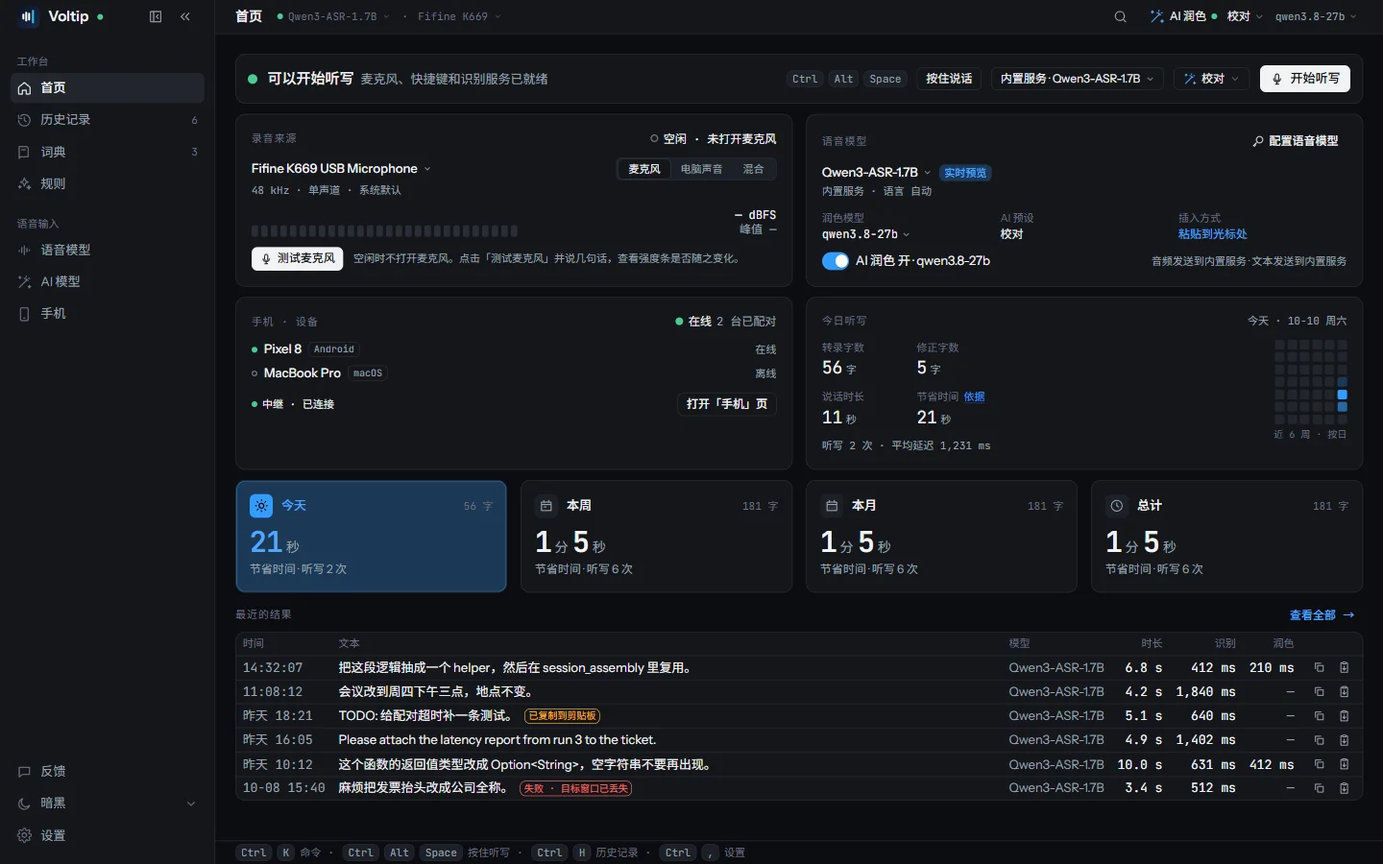
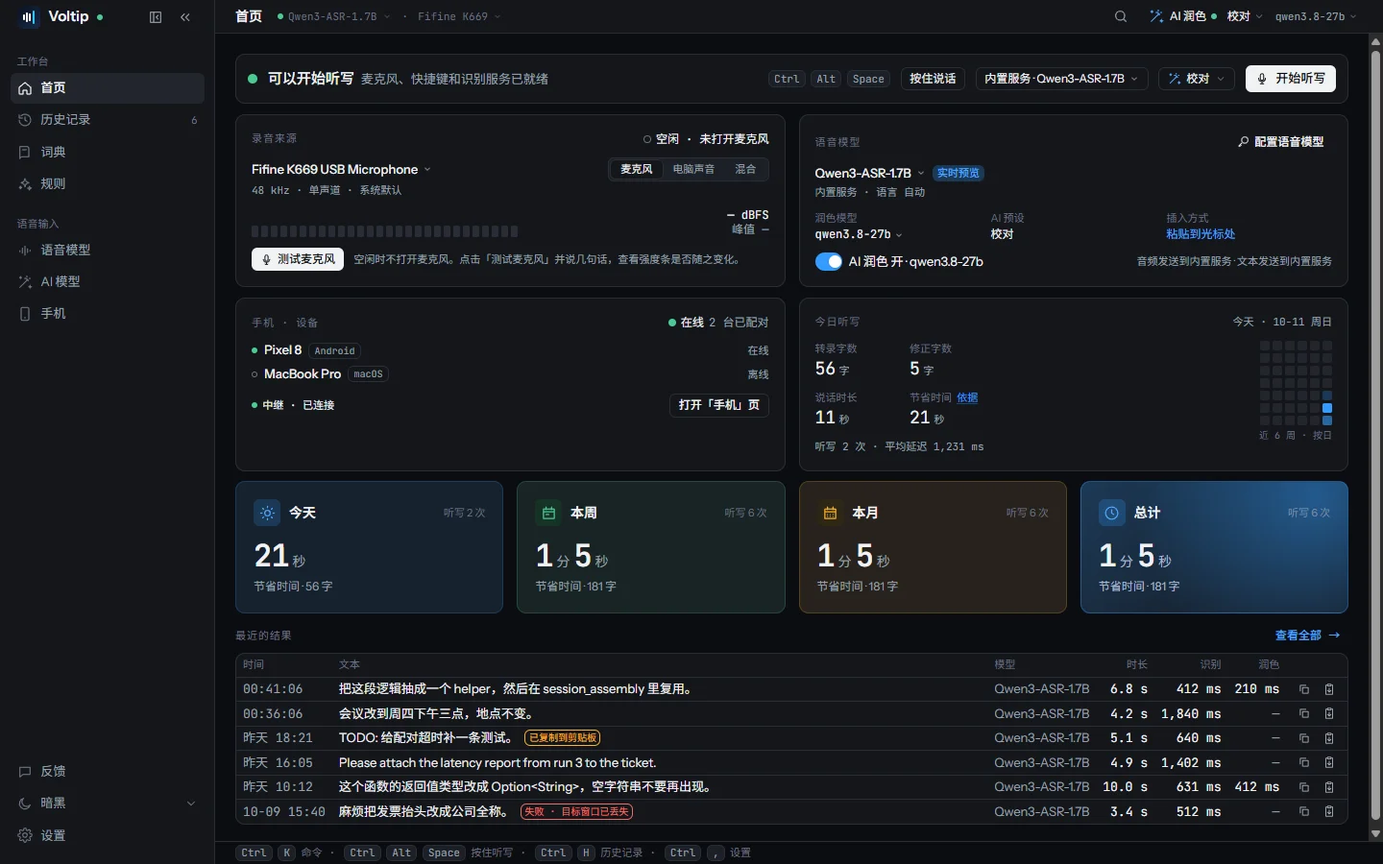
docs(voltip): sync from voltip@69ee77b
Source: https://github.com/sunerpy/voltip/commit/69ee77b1442ec076277a635450b58dadaf4c40a3

diff --git a/voltip/src/zh/dev/frontend.md b/voltip/src/zh/dev/frontend.md
@@ -139,7 +139,7 @@ type UiEvent = { type: "state" } & UiState | { type: "identity" } & DeviceIdenti
 - **设置是模态对话框**：`/settings/:section` 仍是路由（深链、测试），但渲染为 `SettingsDialog`（`min(960px, 100vw-48px) × min(660px, 100vh-48px)`，左 200 px 分组导航 + 右侧流式内容），压在路由 `background`（上一个非设置页面，默认首页）之上；Esc / 遮罩 / 关闭按钮回到 background；标题栏读数保持 background 页面的。
 - **设置 › 听写**（2026-09-29）：插入方式（粘贴到光标处 / 仅复制到剪贴板，`settings_set_engines { inject }`）只在这里设置；首页识别引擎卡的插入方式读数链接到这里。
 - **切换菜单**（`apps/desktop/src/features/switchers/`，2026-09-30 用户要求，2026-10-01 确认方案 A：预设与模型是两个下拉）：标题栏与首页共用三个菜单，行与选中后的设置由纯函数 `switchers.ts` 生成（行 id 由 `choiceId` / `parseChoice` 往返）。`SpeechModelMenu`：「内置服务」组在前，然后是每个已设置、能运行的云端服务商（未设置密钥或缺少地址的服务商不列出，2026-10-01 用户决定），各列其模型；「本地模型」组列出已安装的识别模型（档位名 + 产品名，`modelFamilyName`）；末行「管理语音模型…」进 `/speech`。`PolishModelMenu`：按提供 LLM 的可用服务商分组列模型，末行「管理 AI 模型…」进 `/ai`。选中写 `settings_set_engines`（`engineSettingsFor`：内置服务只切换服务商；其他服务商经 `applyProviderDraft` 写入模型并保留已保存的地址；本地模型经 `activateLocalModel`）。`MicrophoneMenu`：挂载时和每次打开时重读 `audio_devices`（刚插上的 USB 麦克风也在），「系统默认（{名称}）」在前，再列各设备短名；所选设备未连接时仍列出，带「未连接」、选中且不可选；选中写 `settings_set_microphone`；标题栏的菜单另有「录音来源」组（麦克风 / 电脑声音 / 混合，电脑声音不可用的平台不出现），末行「录音来源设置…」打开 设置 › 录音来源。首页：就绪行的语音模型 chip（`home-engine-chip`）、麦克风卡的设备名（`home-mic-device`，原「选择设备」按钮去掉；只录电脑声音时是纯文字）、识别引擎卡的模型名（`home-engine-model`）与「润色模型」（`home-refine-model`）都是这三个菜单的按钮。
-- **引擎页是服务商卡片**：「语音识别」「文本润色」「识别设置」三组。前两组各列一排服务商卡片（`ProviderCard`，按目录顺序，在用的那张带环、默认展开并标「使用中」），展开后选模型（预设 → 测试连接列出的 → 任意 id）、填接口地址（仅自定义接口）与密钥（`password` 字段，永远空着打开，只经 `provider_key_set` 写入；已保存时只显示「已保存」），「测试连接」= `provider_probe`，「使用」写 `settings_set_engines`；内置服务卡只写「内置服务的地址和密钥在构建时写进应用，这里不显示」。「本机」卡片里是真实的模型库（`LocalModels`）：只列识别模型（`capabilities` 含 `offline`），按产品档位排序 均衡 → 高精度 → 轻量 → 轻量 · 中文（`offlineModelsByTier`，同档位保持核心顺序，`listitem` 带 `data-tier`），卡片标题在中文下用核心的 `name`、英文下按 id 查字典（`modelDisplayName`），描述同理（`modelDescription`），下载 / 取消 / 重试 / 删除 / 使用此模型全部是真实核心命令。第三节「实时预览」（`LivePreview`，docs/dictation.md §11）：开关写 `settings_set_engines { live_preview }`（整块下发），状态灯行读 `state.engines.live_preview_ready`（已就绪 / 模型未下载 / 已关闭，`data-state`），下方是流式模型 `zipformer-stream-zh-en` 的同款卡片——只有下载 / 取消 / 重试 / 删除，**没有**「使用此模型」（`modelAction` → `installed`：它不是识别模型，永不 `active`）。第四节「输出方式」（`OutputMode`，docs/dictation.md §12，2026-09-26）：三张 `OptionCard`（`role="listbox"`，`aria-label="输出方式"`）——整段输出 / 流式定稿 / 实时注入，选中写 `settings_set_engines { output_mode }`；状态灯行与「当前生效」徽标读 `state.engines.effective_output_mode`（`data-mode` = 所选，`data-effective` = 实际），流式模型未下载时两张流式卡带「模型未下载」徽标、所选流式卡下方出「流式模型未下载，当前按整段输出运行」（`output-mode-fallback`）；`output_mode = live_inject` 且润色开着时 LLM 润色卡内出「实时注入下不润色」（`refine-live-inject`）。第五节「静音裁剪」（`VadTrim`）：`Toggle` 写 `settings_set_engines { vad_trim }`，仅本机识别时可用，云端下禁用并注明「仅本地识别可用；云端识别不裁剪」（`data-state` = on / off / cloud）。「本机」卡片最后是「运行设备」（`LocalCompute`，§10.6）：自动 / CPU / GPU（没有可用 GPU 时禁用 GPU）、多块 GPU 时选哪块、推理线程。服务商列表之后是「额度用完后改用其他模型」（`packages/ui` `FallbackSection`，docs/dictation.md §3.5，识别与润色各一份，手机同用）：开关与列表写 `settings_set_engines { asr_fallback | llm_fallback }`，每行的状态读 `state.engines.asr_fallback | llm_fallback`（`fallbackRows`：使用中 / 可用 / 额度已用完 · 何时再试 / 服务商问题 / 跳过），「重新检查」= `engines_quota_reset`；候补顶替时服务商区块标题为「当前：服务商 · 模型（候补）」，隐私说明在候补链运行时加上额度用完后会收到数据的服务商（两者是 `packages/ui` 的 `CurrentService` / `ServicePrivacy`，手机两页放在服务商卡片下方）；顶替实时模型的是整段识别模型时，「实时预览」为「暂不可用 · 候补模型不支持实时识别」（`data-state="paused"`），「输出方式」按整段输出生效，不显示「模型未下载」。
+- **引擎页是服务商卡片**：「语音识别」「文本润色」「识别设置」三组。前两组把服务商排成卡片网格（`packages/ui` `ProviderCards`，2026-10-10 用户在 Penpot「Voltip 服务商设置」选定方案 1：网格 + 右侧抽屉；按目录顺序，列宽 `auto-fill` 最小 280 px）：每张卡片写服务商名、请求发往的主机（内置服务、本机、未填地址的自定义接口写一句说明，内置服务的主机从不显示，`providerTagline`）、状态徽标（在用的写「使用中」，有问题的写原因，其余写「就绪」，`providerBadges`）和所用模型（等宽字体，过长截断），右下角是「设为当前」（只切换，写 `settings_set_engines`），在用的那张写「当前使用」并带浅强调色底与浅色图标块（用户 2026-10-10：实心蓝图标块不好看）。点卡片从右侧打开抽屉（`Drawer`：遮罩、Esc / 关闭按钮 / 点遮罩关闭、Tab 不出抽屉、关闭后焦点回到卡片；宽 480 px，本机 720 px，都不超过窗口宽减 24 px）：标题行是图标块、服务商名、状态徽标和说明，下面按「语音识别 / AI 润色」「连接」两组每行一个字段——选模型（预设 → 测试连接列出的 → 任意 id；`Select wrap` 让长模型 ID 在字段内换行，不再撑宽字段盖住旁边的接口地址，2026-10-10 用户报告）、接口地址、密钥（`password` 字段，永远空着打开，只经 `provider_key_set` 写入；已保存时只显示「已保存」；显示 / 隐藏按钮在字段内）、密钥状态与「获取密钥」「删除密钥」、「测试连接」（`provider_probe`，未测时写「尚未测试」）；底部是「恢复默认」「保存」和「设为当前」（先按「保存」的规则检查并写入草稿，再切换并关闭抽屉）；内置服务卡只写「内置服务的地址和密钥在构建时写进应用，这里不显示」。「本机」的抽屉里是真实的模型库（`LocalModels`，两列）：只列识别模型（`capabilities` 含 `offline`），按产品档位排序 均衡 → 高精度 → 轻量 → 轻量 · 中文（`offlineModelsByTier`，同档位保持核心顺序，`listitem` 带 `data-tier`），卡片标题在中文下用核心的 `name`、英文下按 id 查字典（`modelDisplayName`），描述同理（`modelDescription`），下载 / 取消 / 重试 / 删除 / 使用此模型全部是真实核心命令。第三节「实时预览」（`LivePreview`，docs/dictation.md §11）：开关写 `settings_set_engines { live_preview }`（整块下发），状态灯行读 `state.engines.live_preview_ready`（已就绪 / 模型未下载 / 已关闭，`data-state`），下方是流式模型 `zipformer-stream-zh-en` 的同款卡片——只有下载 / 取消 / 重试 / 删除，**没有**「使用此模型」（`modelAction` → `installed`：它不是识别模型，永不 `active`）。第四节「输出方式」（`OutputMode`，docs/dictation.md §12，2026-09-26）：三张 `OptionCard`（`role="listbox"`，`aria-label="输出方式"`）——整段输出 / 流式定稿 / 实时注入，选中写 `settings_set_engines { output_mode }`；状态灯行与「当前生效」徽标读 `state.engines.effective_output_mode`（`data-mode` = 所选，`data-effective` = 实际），流式模型未下载时两张流式卡带「模型未下载」徽标、所选流式卡下方出「流式模型未下载，当前按整段输出运行」（`output-mode-fallback`）；`output_mode = live_inject` 且润色开着时 LLM 润色卡内出「实时注入下不润色」（`refine-live-inject`）。第五节「静音裁剪」（`VadTrim`）：`Toggle` 写 `settings_set_engines { vad_trim }`，仅本机识别时可用，云端下禁用并注明「仅本地识别可用；云端识别不裁剪」（`data-state` = on / off / cloud）。「本机」抽屉最后是「运行设备」（`LocalCompute`，§10.6）：自动 / CPU / GPU（没有可用 GPU 时禁用 GPU）、多块 GPU 时选哪块、推理线程。服务商列表之后是「额度用完后改用其他模型」（`packages/ui` `FallbackSection`，docs/dictation.md §3.5，识别与润色各一份，手机同用）：开关与列表写 `settings_set_engines { asr_fallback | llm_fallback }`，每行的状态读 `state.engines.asr_fallback | llm_fallback`（`fallbackRows`：使用中 / 可用 / 额度已用完 · 何时再试 / 服务商问题 / 跳过），「重新检查」= `engines_quota_reset`；候补顶替时服务商区块标题为「当前：服务商 · 模型（候补）」，隐私说明在候补链运行时加上额度用完后会收到数据的服务商（两者是 `packages/ui` 的 `CurrentService` / `ServicePrivacy`，手机两页放在服务商卡片下方）；顶替实时模型的是整段识别模型时，「实时预览」为「暂不可用 · 候补模型不支持实时识别」（`data-state="paused"`），「输出方式」按整段输出生效，不显示「模型未下载」。
 - **自适应**：页面根 `mx-auto w-full max-w-[1440px]`（首页 1600），网格只用 `minmax(0,1fr)` / `auto-fill`，没有固定像素面板宽；每页一条 `regression: … is fluid` 测试禁止 `w-[NNNpx]` 面板。
 - 路由 `/`（首页）`/history` `/dictionary` `/rules` `/engines` `/devices`（配对面板 = 二维码 + 6 位码 + 倒计时 + 设备表）`/settings/:section`（对话框）`/onboarding`（权限 → 热键 → 引擎 → 试说，四步）；`Ctrl K` 命令菜单；悬浮胶囊作为独立路由 `/overlay?state=` 渲染单个胶囊（独立小窗，`state=blank` 什么都不画，**`state=live` 跟随 `state.dictation`**：idle 不画；listening 波形来自 `audio_meter_start` 的实时电平 + 已用时长——`ready: false`（设备尚未送出样本）时计时停在 `00:00` 并显示「等待麦克风」提示，`ready: true` 后从重取的 `started_at` 起计；有 `live` 时胶囊长高到两行（`h-14`，窗口 64 px 减 8 px 顶部内边距），波形上方一行两色实时字幕：`committed` 正常色 + `current` 弱化色（`text-pill-muted`），中日韩边界不加空格、拉丁边界加空格（`liveTextGap`），单行、只保留末尾 40 个字符（`clipLiveCaption`，前置省略号，`data-clipped`），旁边一枚「预览」小 chip；`live.degraded` 胶囊不额外显示任何东西（首页引擎卡出一行「实时预览已中断 · 最终文本不受影响」）；processing 有 `preview` 时用弱化色的预览文本（`pill-preview`，同样只留末尾 40 字）替代「转写中…」/「润色中…」直到最终结果；inserted 显示字数与 `via`，failed 显示原因并在有 `text` 时提供真实「复制文本」，cancelled 用 danger 胶囊），**§12 / §13（2026-09-26）**：`listening.locked` 时锁标（`pill-lock`，`aria-label`「已锁定 · 再按一次结束」）替代状态灯、字幕与计时照旧；`live.injected > 0` 时已粘贴的 committed 句以更淡样式（`pill-live-injected`，`title`「已打进前台应用」）排在字幕最前、裁剪时最先被裁；`processing.stage = finalizing` 时模式 tag 显示「补齐最后一句…」而 `preview` 继续显示；`cancelled.injected_chars > 0` 时文案为「已取消，之前打进去的 N 字保留」）；`/overlay` 不带参数是胶囊规格页（八态总览 + toast / 兜底卡 / 失败原因表；`locked` 样例胶囊的「结束收音」是真实 `dictation_stop`），只在开发构建里有，发行包里这个地址显示「找不到页面」。没有 `/bridge` 路由（Bridge & MCP 不在产品范围内）；首页对应位置是由核心真实数据驱动的「手机麦克风 · 设备」卡。
 - 客户端禁用浏览器右键菜单（`apps/desktop/src/app/context-menu.ts`，仅 Tauri 内生效，可编辑控件与 `data-allow-context-menu` 除外）。

diff --git a/voltip/src/zh/dev/dictation.md b/voltip/src/zh/dev/dictation.md
@@ -323,7 +323,7 @@ pub struct HistoryEntry {
 - **每条的数字**：说话时长 = `duration_ms`；转录字数 = `raw_text` 的 Unicode 标量数；修正字数 = 去掉空白后 `raw_text` → `text` 的 Levenshtein 距离，按 Unicode 标量计（`strsim::generic_levenshtein`），超过 `CORRECTION_PIECE_CHARS = 2 000` 字时两边按相同比例切成同样多段，逐段相加；延迟 = `asr_ms + refine_ms`。
 - **分桶**：页面用 `statsBoundaries` 按本地时间算出零点，从本周一往前 5 周到明天零点，共 37–43 个；夏令时 23 或 25 小时的日子也按本地零点算。核心按 `[bᵢ, bᵢ₊₁)` 分桶，每个区间和总计都给出次数、转录字数、修正字数、说话时长和延迟合计。页面用这些区间拼出今天、本周、本月和 6 周热力图（本月的开头总在这 6 周里）。
 - **节省时间** = 说话时长 × 1.9（`SAVED_TIME_FACTOR`）。依据：Ruan 等 2016（arXiv:1608.07323）的实验里，说话输入比手机打字快约 2.9 倍（英文 153 vs 52 词/分，中文 123 vs 43），打出同样的字要多花约 1.9 倍的说话时长。首页的「依据」弹层写的是同一段说明。
-- **首页**：今日面板显示转录字数、修正字数、说话时长、节省时间，次数和平均延迟放在下面一行（窄窗口在两者之间换行），「依据」在「节省时间」旁；今天 / 本周 / 本月 / 总计四张卡（用户 2026-10-10 要求突出重点、加高）：第一行是范围的图标块（太阳、日历、月历、时钟）、范围名和字数，下面是节省时间（30 px 加粗的数字、14 px 的单位）和「节省时间 · 听写 N 次」；「今天」一张用强调色的浅色底与描边，图标块、范围名和数字都用强调色，其余三张是普通卡片。手机「记录」页的四格结构相同（「今天」用 `primaryContainer` 底、`primary` 图标块）。时长按大小换单位（`durationParts`：「21 秒」「3 分 47 秒」「79 小时 10 分」），数字大、单位小；侧栏的历史计数与页面上的计数一样加千位分隔。
+- **首页**：今日面板显示转录字数、修正字数、说话时长、节省时间，次数和平均延迟放在下面一行（窄窗口在两者之间换行），「依据」在「节省时间」旁；今天 / 本周 / 本月 / 总计四张卡（用户 2026-10-10 选定 Penpot「Voltip 统计卡」的方案 C、总计卡处理 ①）：每张卡的底色和描边是表面色混入该范围的颜色（今天跟随强调色，本周 ok 绿，本月 warning 琥珀；浅色主题混 5% / 22%，深色主题 8% / 28%），左上角是同色的图标块（太阳、日历、月历、时钟）和范围名，右上角听写次数，下面是节省时间（32 px 粗体数字）和「节省时间 · 字数」。总计卡在浅色主题里是墨色渐变加右上角强调色光晕、浅色文字，在深色主题里是强调色浅底到表面色的渐变加光晕和描边，图标块是浅强调色底配强调色图标（不用实心强调色，用户 2026-10-10 看服务商草图时提出）。颜色全部来自主题令牌（`packages/ui/src/tokens.css` 的 `--tile-*` / `--total-*` 与 `stat-tile-*`），所以四个主题和用户选的强调色都适用；手机「记录」页的四格由 `apps/mobile-rn/src/ui/statTile.ts` 从 MD3 主题算出同样的颜色，总计卡的渐变用 react-native-svg 画。时长按大小换单位（`durationParts`：「21 秒」「3 分 47 秒」「79 小时 10 分」），数字大、单位小；侧栏的历史计数与页面上的计数一样加千位分隔。
 
 ## 5. IPC（bridge 与 TS 契约）
 
@@ -377,7 +377,7 @@ pub struct HistoryEntry {
 - **首页**：就绪行的组合键与页脚快捷键读 `state.settings.hotkey`；「开始听写」= `dictation_start` / 听写中变「停止」= `dictation_stop`；识别引擎卡读 `state.engines`；最近结果读 `state.history_recent`，统计条与今日会话来自 `history_stats`（§4.5）。
 - **麦克风（2026-09-28 用户反馈）**：空闲时不打开麦克风。首页麦克风卡只在两种情况下测强度：一次录音进行中（用录音自己的帧，不再二次打开设备），或点了「测试麦克风」（15 秒后自动停止，也可以提前停）。其余时间强度条保持静止，并写明空闲时不打开麦克风。界面用词是「强度」，不再叫「电平」。设置对话框新增「麦克风」组：输入设备下拉写 `settings_set_microphone { device }`（`null` 表示跟随系统默认），旁边是同样的「测试麦克风」。核心的 `Settings.microphone`（`Option<String>`，旧文件读作 `None`）经 `DictationEngine::set_microphone` 在下一次录音时交给麦克风端口，设备 id 超过 1024 字节或为空时拒绝。所选设备没接上时，本次录音和测试都退回系统默认输入（桌面壳 `connected_or_default` 与电平 hub 的打开逻辑）；界面上这项选择保留，标成「未连接」，并说明听写会先用系统默认输入。手机录音不受影响。
 - **历史页**：`history_query` 分页读库（§4.4），删除 / 清空 / 星标 / 筛选 / 搜索 / 原文-润色 diff 全部真实。
-- **设置 › 引擎**（引擎与设置合并为一个对话框）：「语音识别」「文本润色」两组服务商卡片（§3；展开卡片选模型、填接口地址与密钥、测试连接，「使用」写 `settings_set_engines`，密钥走 `provider_key_set`）；「本机」卡片里是按档位排序的本地模型卡（下载 / 取消 / 删除 / 使用此模型）与运行设备（§10.6）、独立的「实时预览」块（开关 + 流式模型卡）、「输出方式」三卡（§12，`effective_output_mode` 驱动「当前生效」徽标与回落说明；`live_inject` 下润色卡注明不润色）与「静音裁剪」开关（仅本地）；见 `docs/frontend.md` §4、§6。
+- **设置 › 引擎**（引擎与设置合并为一个对话框）：「语音识别」「文本润色」两组服务商卡片网格（§3；卡片上的「设为当前」写 `settings_set_engines`，点卡片从右侧打开抽屉选模型、填接口地址与密钥、测试连接，密钥走 `provider_key_set`）；「本机」的抽屉里是按档位排序的本地模型卡（下载 / 取消 / 删除 / 使用此模型）与运行设备（§10.6）、独立的「实时预览」块（开关 + 流式模型卡）、「输出方式」三卡（§12，`effective_output_mode` 驱动「当前生效」徽标与回落说明；`live_inject` 下润色卡注明不润色）与「静音裁剪」开关（仅本地）；见 `docs/frontend.md` §4、§6。
 - **设置 › 热键**：录制组合键 + 「激活方式」三卡（§13）+ 「短按判定阈值」（仅 `hold_or_toggle`）+ 「松开后继续录音」，任一改动整份 `settings_set_activation`；首页 chip、页脚说明、空态提示随激活方式变化。
 - **悬浮胶囊**：`listening` 的波形来自 `audio_meter_start`（录音期间由核心广播喂给）；`locked` 时锁标替代状态灯（§13）；`live.injected` 已粘贴的句子更淡（§12）；`finalizing` 时模式 tag 为「补齐最后一句…」且预览继续；`inserted` 显示字数与 `via`；`error` 显示原因并提供「复制」；`cancelled.injected_chars > 0` 时「已取消，之前打进去的 N 字保留」。
 - **引导**：第 3 步选识别服务商（内置服务、本机模型并可当场下载推荐模型，或其他服务商与密钥）；第 4 步「试说一句」真实走一遍流水线并把结果显示在框里（不注入）。
@@ -1449,7 +1449,7 @@ Rust：`voltip-protocol` `take_messages_roundtrip_and_are_validated`（含 `take
   - AI 润色开关、预设（`presets_*` 交给核心，`presets_builtin` 由 `voltip_cloud::builtin_preset_texts` 回答）、识别语言与中文字形（§17）；
   - 界面语言、主题（`settings_set_locale`、`settings_set_theme`）与单次录音最长时间（`settings_set_recording`）；
   - 「关于」：版本、许可证（AGPL-3.0-or-later）、源代码与发布页（`project_link_open`）。
-  - 界面与桌面共用 `@voltip/ui` 的服务商卡片（`ProviderCard`）、预设区（`PresetsSection`、`PresetEditor`）与中文字形（`ChineseScript`），它们经 `FeatureShellProvider` 用各自应用的提示与确认框。手机界面加了底部标签栏「说话」「设置」，「返回」回到打开当前页的那一页。
+  - 界面与桌面共用 `@voltip/ui` 的服务商卡片（`ProviderCards`）、预设区（`PresetsSection`、`PresetEditor`）与中文字形（`ChineseScript`），它们经 `FeatureShellProvider` 用各自应用的提示与确认框。手机界面加了底部标签栏「说话」「设置」，「返回」回到打开当前页的那一页。
   - 词典、替换规则与场景（M6b-2，§16.6、§18.11）：命令与桌面相同，场景改为在说话卡片上手动选择；
   - 历史记录（M6b-3）：底部标签栏加「记录」，与「说话」「设置」并列（`apps/mobile/src/screens/History.tsx`）：今天、本周、本月、累计四格统计（`history_stats`，与桌面首页同一套 `homeStats`）；搜索与筛选在核心里执行（`history_query`，`@voltip/ui` 的 `useHistoryList`，每页 100 条，「加载更多」）；按天分组。点开一条进入「记录详情」（`HistoryEntry.tsx`，导航栈的这一项带着条目 id）：润色后 / 原文 / 处理后三种文本，复制、分享、收藏、删除（确认后），时长、字数、模型、预设、场景与耗时；长条目（§22）可以用 AI 预设处理（`useHistoryProcess`），字幕与文本经系统分享面板以文件发出。设置 › 「历史记录」开关保存、选择保留条数（与桌面相同的选项）、清空（确认后）。「说话」页的「最近结果」有「全部记录」链接。桌面的历史辅助函数（`history-stats.ts`）与三个 hook 移到 `@voltip/shared` / `@voltip/ui`，两端共用。
   - 反馈（M6b-3 第二批，docs/feedback.md）：设置 ›「反馈」是桌面同一张表单的单栏页面，附件从照片选择器添加；客户端从桌面壳移到 `voltip_cloud::feedback`，两个壳共用，Android 发布构建同样编入反馈地址。

diff --git a/voltip/src/recognition/cloud.md b/voltip/src/recognition/cloud.md
@@ -10,7 +10,7 @@ Instead of a local model, recognition and AI polish can use a service on the int
 
 Release packages come with a built-in service, so dictation and AI polish work before you set anything up. It is run by the Voltip project and needs no key. Builds from source have no built-in service.
 
-For AI polish the built-in service offers several models: Qwen3.8 27B (the default), GPT-OSS 120B and GPT-OSS 20B. Choose one on the built-in service's card on the **AI models** page. They are also offered as fallback models (see [When a model's quota runs out](#when-a-model-s-quota-runs-out)): each model has its own quota.
+For AI polish the built-in service offers several models: Qwen3.8 27B (the default), GPT-OSS 120B and GPT-OSS 20B. Choose one in the built-in service's settings on the **AI models** page. They are also offered as fallback models (see [When a model's quota runs out](#when-a-model-s-quota-runs-out)): each model has its own quota.
 
 With the built-in service, the overlay shows the words while you speak (live preview), with no live transcription model to download: the sentence you are saying is sent about every second, and the preview updates about every 2 seconds. The final text is still the transcript of the whole recording after you release the shortcut. **Live preview** can be turned off under **Speech models → Recognition**.
 
@@ -37,14 +37,14 @@ A provider that offers both services uses one key for both.
 
 ## Setting up a provider
 
-1. On the Speech models or AI models page, expand the provider's card.
+1. On the Speech models or AI models page, select the provider's card. Its settings open in a panel on the right, or from the bottom on the phone.
 2. Choose a model, and for a custom endpoint enter its address.
 3. Enter your key. **Test connection** checks the address and the key and lists the models the provider offers.
-4. Choose **Use** to switch to the provider.
+4. Choose **Set as current** to save what you entered and switch to the provider. **Set as current** on a card switches to the provider without opening its settings.
 
 ## Google AI Studio
 
-Google AI Studio offers Gemini models for AI polish. Create a key at [aistudio.google.com/apikey](https://aistudio.google.com/apikey) (the card's **Get a key** opens it) and enter it on the Google AI Studio card on the **AI models** page. The model list offers Gemini models with a free tier; **Test connection** adds every text model your key can use, so you choose from the list instead of typing a name.
+Google AI Studio offers Gemini models for AI polish. Create a key at [aistudio.google.com/apikey](https://aistudio.google.com/apikey) (**Get a key** in the provider's settings opens it) and enter it in the Google AI Studio settings on the **AI models** page. The model list offers Gemini models with a free tier; **Test connection** adds every text model your key can use, so you choose from the list instead of typing a name.
 
 On the free tier, Google may use what you send to improve its products; a key from a Google Cloud project with billing turned on is not used that way. See [Privacy](/privacy).
 

diff --git a/voltip/src/recognition/local.md b/voltip/src/recognition/local.md
@@ -7,7 +7,7 @@ description: The speech models that run on your computer, how to download them, 
 With a local model, your recordings are recognised on your computer and no audio leaves it. Open **Speech models** in the sidebar, choose **This computer**, and download a model. Once it is downloaded, you can also switch to it from the speech model name in the title bar or on the home page.
 
 <ScreenFigure src="/screens/local-en-light.webp" width="1440" height="900"
-  alt="The This computer card on the Speech models page: four local models, one of them installed and in use, and the compute device settings below."
+  alt="The This computer settings on the Speech models page: four local models, one of them installed and in use, and the compute device settings below."
   caption="Speech models › This computer, with Qwen3-ASR 0.6B installed." />
 
 ## The models
